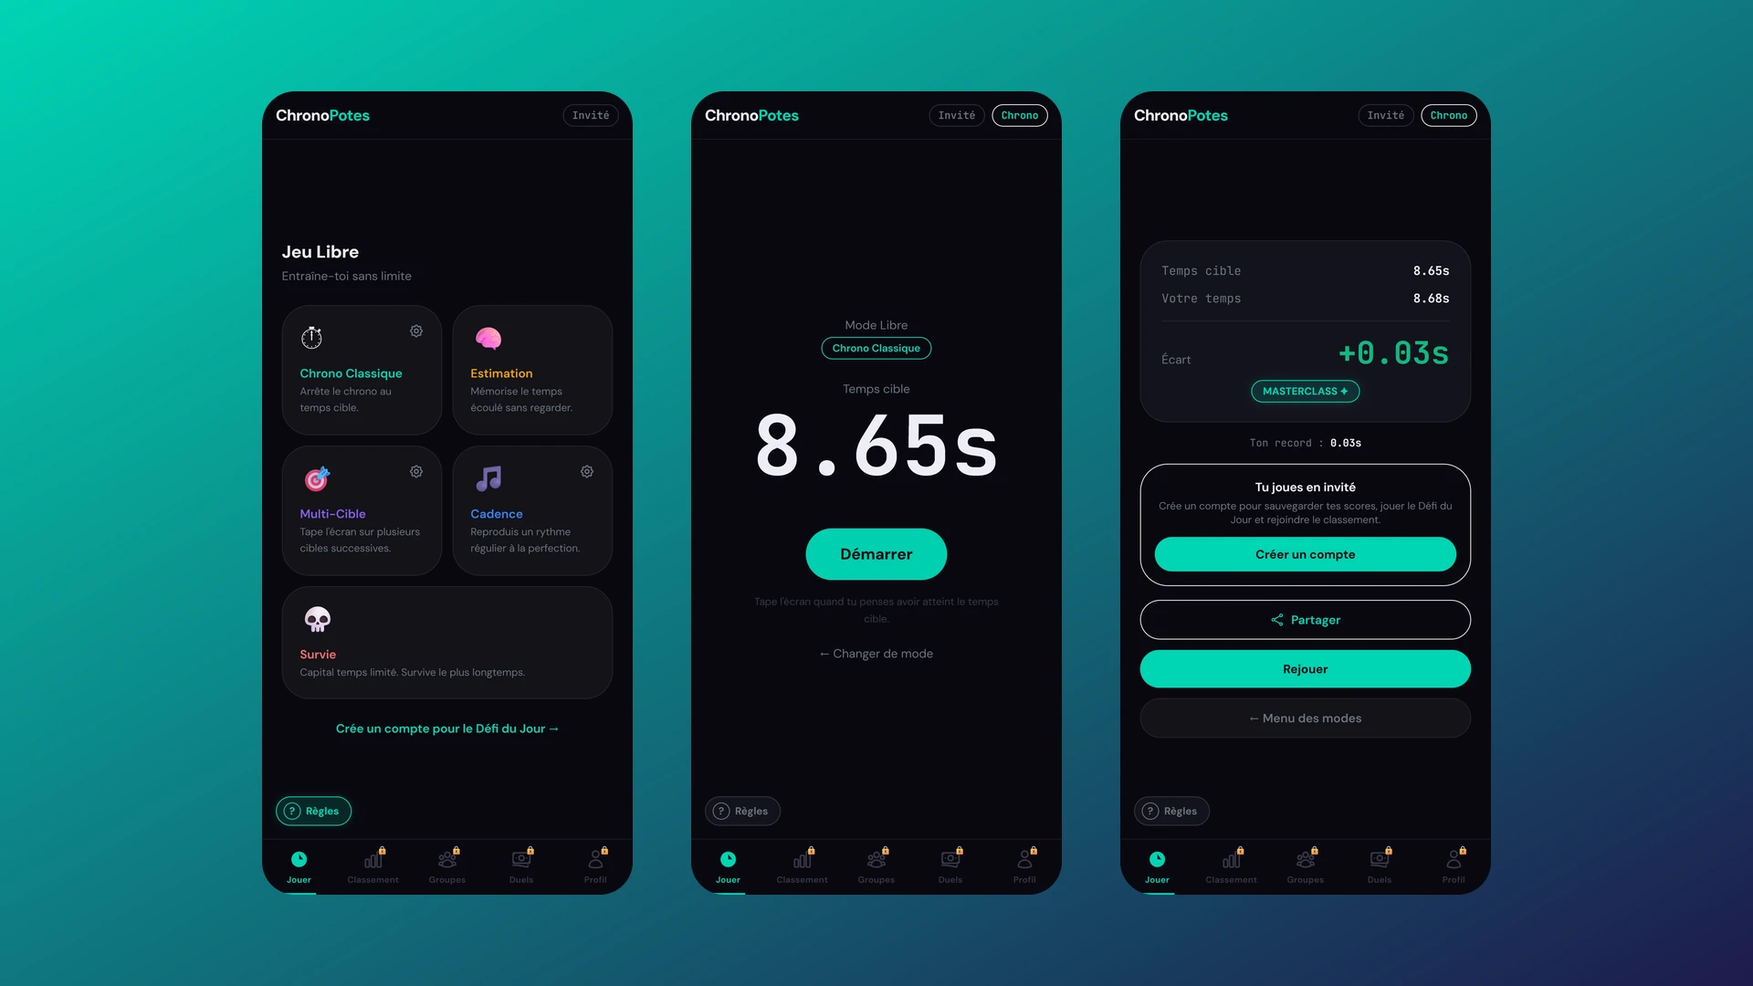
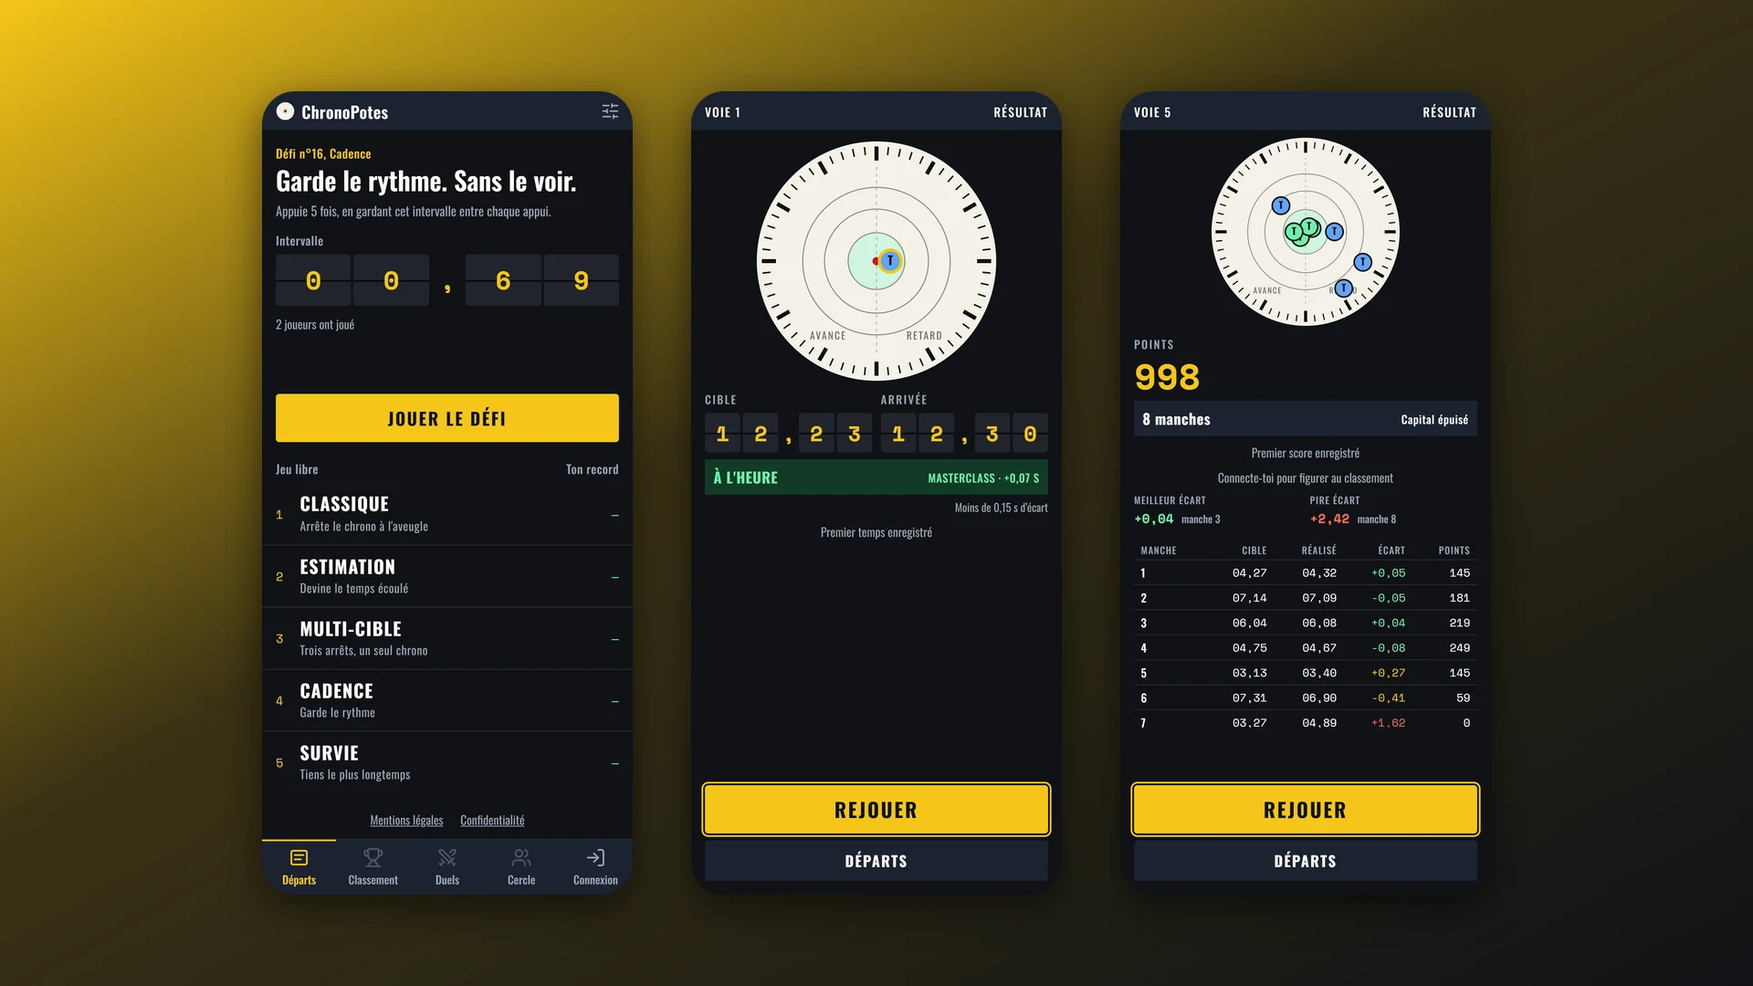
Projets : ChronoPotes passe a la v2
La page decrivait encore la premiere version : Tailwind, application
Android via Capacitor, jokers et onglet Rivalites. La v2, reconstruite de
zero en novembre, n'en garde rien. La page presente desormais le defi du
jour jouable sans compte, les duels asynchrones et les defis de groupe,
les amis et groupes, la PWA et ses notifications Web Push, le back-office
et la regle d'or du chrono. La stack suit le depot : CSS Modules, Edge
Functions, Realtime, pg_cron, Workbox et pgTAP.

Les captures sont celles du site en ligne, prises en Jeu libre dans un
navigateur vierge : accueil, resultats Classique et Multi-cible, bilan de
Survie et regles. La couverture reprend trois de ces ecrans sur un
degrade aux couleurs de la nouvelle charte. Les quatre captures de la v1
sont retirees.

Le role raconte la refonte en deux temps, le contexte puis la technique :
RoleCallout separe desormais les paragraphes sur une ligne vide, comme en
Markdown. Les roles d'un seul paragraphe s'affichent comme avant.

diff --git a/src/content/work/chronopotes.md b/src/content/work/chronopotes.md
@@ -1,70 +1,77 @@
 ---
 title: ChronoPotes
-publishDate: 2026-08-18 00:00:00
+publishDate: 2026-11-20 00:00:00
 description: |
-  Jeu web quotidien où l'on entraîne sa perception du temps : arrêter un chronomètre au plus près d'une durée cible. Un défi commun à tous les joueurs chaque jour, des classements, des duels et des groupes privés.
+  Jeu web quotidien de précision temporelle, reconstruit de zéro : arrêter un chronomètre à l'aveugle au plus près d'une cible. Un défi commun chaque jour, des duels entre amis, des groupes et une application installable.
 tags:
   - React
+  - TypeScript
   - Supabase
   - PostgreSQL
-  - Tailwind CSS
-  - Capacitor
+  - PWA
 demoUrl: https://www.chronopotes.fr
-gradient: "linear-gradient(135deg, #00d4b4 0%, #1e1b4b 100%)"
+gradient: "linear-gradient(135deg, #F5C518 0%, #101216 100%)"
 img: ../../assets/projets/chronopotes/couverture.webp
-img_alt: "Trois ecrans de ChronoPotes cote a cote : le menu des cinq modes de jeu, l'ecran de lancement affichant un temps cible de 8,65 s, et l'ecran de resultat annoncant un ecart de +0,03 s note MASTERCLASS."
-period: "2026"
-context: Projet personnel
+img_alt: "Trois écrans de ChronoPotes côte à côte : l'accueil avec le défi du jour et les cinq modes du Jeu libre, le résultat d'une partie de Classique notée Masterclass, et le bilan d'une partie de Survie."
+period: Juin – novembre 2026
+context: Projet personnel, en ligne
 team: Seul
 intro: |
-  ChronoPotes est un jeu quotidien qui entraîne le sens du temps. Chaque jour, une même durée cible est tirée pour tout le monde : il faut arrêter le chronomètre au plus près, en une seule tentative. Le reste du jeu est construit autour de cette contrainte : un classement du jour, une série à ne pas casser, des duels lancés à un ami par un simple lien et des groupes privés pour ne se comparer qu'à ses proches. Le jeu est en ligne et ouvert à tous.
+  ChronoPotes est un jeu quotidien qui entraîne le sens du temps : arrêter un chronomètre à l'aveugle, au plus près d'une durée cible. Chaque jour, le serveur tire le même défi pour tous les joueurs, à jouer en un seul essai. Une première version est en ligne depuis l'été ; en novembre, je l'ai reconstruite de zéro, avec une nouvelle charte inspirée des tableaux de gare, un nouveau moteur de jeu, une nouvelle base et des fonctions sociales repensées. Le jeu est ouvert à tous sur chronopotes.fr et s'installe sur téléphone comme une application.
 features:
-  - title: Un défi quotidien, une seule tentative
-    description: La même durée cible pour tous les joueurs, une série qui se construit jour après jour et des jokers gagnés en jouant pour survivre à un oubli.
+  - title: Défi du jour, même sans compte
+    description: Une cible tirée par le serveur, la même pour tous à l'heure de Paris, jamais dans le même mode deux jours de suite. On le joue sans compte ; le compte ajoute le classement et la série.
     icon: trophy
   - title: Cinq modes de jeu
-    description: Classique, Estimation à l'aveugle, Multi-Cible, Cadence à reproduire et Survie avec banque de temps.
+    description: Classique, Estimation à l'aveugle, Multi-cible, Cadence, et Survie, où un capital de temps s'use au fil des manches, avec combos et incidents aléatoires.
     icon: strategy
-  - title: Duels asynchrones entre amis
-    description: Un duel se lance par un lien partagé ; l'adversaire joue quand il veut, dans des conditions identiques, et l'onglet Rivalités tient le bilan des face-à-face.
+  - title: Un résultat lisible d'un coup d'œil
+    description: Des palettes qui se retournent comme sur un tableau de gare, un son synthétisé en Web Audio et une horloge-cible où chaque écart se plante comme une fléchette.
+    icon: pencil-line
+  - title: Duels et défis de groupe
+    description: Un duel asynchrone en trois tentatives, lancé par lien ou depuis ses amis, le bilan de chaque rivalité, et des défis ouverts à tout un groupe avec leur palmarès.
     icon: paper-plane-tilt
-  - title: Groupes privés
-    description: Un code d'invitation crée un classement fermé, pour se mesurer à ses proches plutôt qu'au monde entier.
-  - title: Classements multiples
-    description: Du jour, général, hebdomadaire et survie, avec la tendance de rang par rapport à la veille.
+  - title: Amis et groupes
+    description: Des amis ajoutés par pseudo, des groupes rejoints par code ou par lien, et des classements filtrés sur ces cercles.
     icon: list
-  - title: Trophées et carte de partage
-    description: Des succès à paliers, dont quelques-uns cachés, et une image de résultat générée en canvas pour partager sa performance.
-  - title: Back-office complet
-    description: Calendrier des défis à venir, configuration du jeu, gestion des joueurs et des groupes, et mode maintenance.
-    icon: terminal-window
-  - title: Application Android
-    description: Le même code empaqueté en application native via Capacitor.
+  - title: Application installable et notifications
+    description: Une PWA qui se joue sans réseau en Jeu libre, un guide d'installation sur iPhone, et des notifications Web Push réglables type par type et muettes la nuit.
     icon: rocket-launch
+  - title: Back-office d'administration
+    description: Un accès protégé par un code à usage unique, le calendrier des défis à venir, la fiche et l'export des données d'un joueur, les suspensions, les annonces et un bandeau d'information, chaque action notée au journal.
+    icon: terminal-window
+  - title: La règle d'or du chrono
+    description: Pendant qu'un chrono court, rien ne bouge à l'écran et aucun appel réseau ne part, pour ne donner aucun repère au joueur. Un test de bout en bout vérifie que la page reste identique entre le GO et le clic.
+    icon: code
 stack:
   - layer: Frontend
-    items: [React 19, Vite, React Router, Tailwind CSS]
+    items: [React 19, TypeScript strict, Vite, React Router, CSS Modules]
   - layer: Backend
-    items: [Supabase, PostgreSQL, Row Level Security, Edge Functions]
+    items: [Supabase, PostgreSQL, Row Level Security, Edge Functions, Realtime, pg_cron]
+  - layer: PWA
+    items: [Workbox, Web Push]
   - layer: Tests
-    items: [Vitest, Testing Library]
-  - layer: Mobile
-    items: [Capacitor (Android)]
-  - layer: Déploiement
+    items: [Vitest, Testing Library, Playwright, pgTAP]
+  - layer: Hébergement
     items: [Vercel]
 role: |
-  Projet personnel mené seul, du jeu lui-même jusqu'à la mise en ligne. La partie la plus instructive n'a pas été le jeu mais la base : les scores étant classants, tout ce qui les produit vit côté serveur. J'ai mené un audit de l'intégration entre l'application et la base, qui a mis au jour des écritures directes contournant les fonctions de validation, des accès concurrents capables de fausser un duel ou une série, et des données de joueurs privés lisibles via l'API. Les règles d'accès ont été refermées, les compteurs rendus atomiques et le calcul des écarts déplacé côté serveur.
+  Projet personnel mené seul, de la conception à la mise en ligne. La première version fonctionnait, mais son code se prêtait mal aux évolutions, la génération des défis laissait passer des erreurs et l'interface manquait de personnalité. Plutôt que de la rapiécer, je l'ai reconstruite en sous-projets, chacun livré avec sa spécification, son plan et ses tests, et validé sur des adresses de prévisualisation avant la bascule du domaine.
+
+  Le moteur de jeu est du TypeScript pur, sans React ni horloge : chaque mode est une machine à états, testée avec des instants et un tirage aléatoire injectés. La même copie du moteur tourne dans les Edge Functions, qui recalculent chaque score côté serveur. Côté base, une règle guide tout : le serveur seul décide. Elle vient de l'audit de la première version, qui avait révélé des écritures contournant la validation. Droits d'accès, limites, suspensions et administration sont vérifiés dans PostgreSQL et couverts par des tests pgTAP, si bien qu'un appel direct à l'API ne contourne rien.
 gallery:
-  - src: ../../assets/projets/chronopotes/modes.webp
-    alt: "Ecran Jeu Libre de ChronoPotes : cinq cartes de mode (Chrono Classique, Estimation, Multi-Cible, Cadence et Survie), chacune avec sa description en une ligne."
-    caption: Les cinq modes du jeu libre, chacun avec sa propre regle de precision.
-  - src: ../../assets/projets/chronopotes/temps-cible.webp
-    alt: "Ecran de lancement d'une partie : le mode Chrono Classique, un temps cible de 8,65 s affiche en tres grand, et un bouton Demarrer."
-    caption: "Le temps cible s'affiche avant le depart : c'est la seule information dont dispose le joueur."
-  - src: ../../assets/projets/chronopotes/resultat.webp
-    alt: "Ecran de resultat : temps cible 8,65 s, temps du joueur 8,68 s, ecart de +0,03 s note MASTERCLASS, suivi des boutons Partager et Rejouer."
-    caption: Le resultat compare la cible au temps reel et attribue une note selon l'ecart.
+  - src: ../../assets/projets/chronopotes/accueil.webp
+    alt: "Accueil de ChronoPotes sur téléphone : le défi du jour n°16 en mode Cadence, son intervalle de 0,69 s sur des palettes jaunes et le bouton Jouer le défi, puis la liste des cinq modes du Jeu libre et la barre de navigation."
+    caption: "L'accueil met en tête le défi du jour, jouable sans compte, au-dessus des cinq modes du Jeu libre."
+  - src: ../../assets/projets/chronopotes/classique-resultat.webp
+    alt: "Résultat d'une partie de Classique : une horloge de gare dont la fléchette est plantée dans la zone verte du centre, une cible de 12,23 s, une arrivée à 12,30 s et le bandeau À l'heure, Masterclass, +0,07 s."
+    caption: "Chaque écart se lit sur l'horloge : l'avance à gauche, le retard à droite, la Masterclass au centre."
+  - src: ../../assets/projets/chronopotes/multi-resultat.webp
+    alt: "Résultat d'une partie de Multi-cible : trois fléchettes numérotées sur l'horloge, un écart moyen de 0,29 s noté Dans les temps, et le tableau des trois arrêts avec la cible, le temps réalisé et l'écart coloré selon son niveau."
+    caption: "En Multi-cible, une fléchette par arrêt et le détail de chaque écart."
+  - src: ../../assets/projets/chronopotes/survie-resultat.webp
+    alt: "Bilan d'une partie de Survie : 998 points en 8 manches, capital épuisé, une fléchette par manche sur l'horloge, le meilleur et le pire écart, puis le tableau des manches avec cible, temps réalisé, écart et points."
+    caption: "La Survie s'arrête quand le capital de temps est épuisé ; le bilan retrace chaque manche."
   - src: ../../assets/projets/chronopotes/regles.webp
-    alt: "Modale des regles du jeu, onglet Classique : les trois etapes d'une partie, puis l'echelle de precision qui associe chaque palier d'ecart a une note, de MASTERCLASS a moins de 0,15 s jusqu'a Encore un effort au-dela d'une seconde."
-    caption: "L'echelle de precision est commune a tous les modes : un ecart, un palier, une note."
+    alt: "Règles du mode Classique affichées par-dessus l'écran de jeu : les trois étapes d'une partie, puis l'échelle des niveaux, de À l'heure sous 0,15 s d'écart jusqu'à Supprimé au-delà d'une seconde."
+    caption: "Les règles s'ouvrent avant la première partie de chaque mode, avec l'échelle des niveaux."
 ---

diff --git a/src/content/work-en/chronopotes.md b/src/content/work-en/chronopotes.md
@@ -1,70 +1,77 @@
 ---
 title: ChronoPotes
-publishDate: 2026-08-18 00:00:00
+publishDate: 2026-11-20 00:00:00
 description: |
-  A daily web game that trains your sense of time: stop a timer as close as possible to a target duration. One shared challenge a day, leaderboards, duels, and private groups.
+  A daily web game about timing, rebuilt from scratch: stop a timer blind, as close as possible to a target. One shared challenge a day, duels between friends, groups, and an installable app.
 tags:
   - React
+  - TypeScript
   - Supabase
   - PostgreSQL
-  - Tailwind CSS
-  - Capacitor
+  - PWA
 demoUrl: https://www.chronopotes.fr
-gradient: "linear-gradient(135deg, #00d4b4 0%, #1e1b4b 100%)"
+gradient: "linear-gradient(135deg, #F5C518 0%, #101216 100%)"
 img: ../../assets/projets/chronopotes/couverture.webp
-img_alt: "Three ChronoPotes screens side by side: the five-mode menu, the launch screen showing a target time of 8.65 s, and the result screen announcing a gap of +0.03 s rated MASTERCLASS."
-period: "2026"
-context: Personal project
+img_alt: "Three ChronoPotes screens side by side: the home screen with the daily challenge and the five Free Play modes, the result of a Classic game rated Masterclass, and the summary of a Survival game."
+period: June – November 2026
+context: Personal project, live
 team: Solo
 intro: |
-  ChronoPotes is a daily game that trains your sense of time. Every day, the same target duration is drawn for everyone: you have to stop the timer as close to it as you can, in a single attempt. The rest of the game is built around that constraint: a daily leaderboard, a streak you would rather not break, duels sent to a friend through a plain link, and private groups so you only compare yourself to the people you know. The game is live and open to everyone.
+  ChronoPotes is a daily game that trains your sense of time: stop a timer blind, as close as you can to a target duration. Every day, the server draws the same challenge for every player, with a single attempt. A first version has been live since the summer; in November, I rebuilt it from scratch, with a new visual identity inspired by railway departure boards, a new game engine, a new database, and redesigned social features. The game is open to everyone at chronopotes.fr and installs on a phone like an app.
 features:
-  - title: One daily challenge, one attempt
-    description: The same target duration for every player, a streak built day after day, and jokers earned through play to survive a missed day.
+  - title: A daily challenge, even without an account
+    description: A target drawn by the server, the same for everyone on Paris time, never in the same mode two days in a row. You can play it without an account; an account adds the leaderboard and the streak.
     icon: trophy
   - title: Five game modes
-    description: Classic, blind Estimation, Multi-Target, Cadence to reproduce, and Survival with a time bank.
+    description: Classic, blind Estimation, Multi-Target, Cadence, and Survival, where a time bank wears down round after round, with combos and random incidents.
     icon: strategy
-  - title: Asynchronous duels between friends
-    description: A duel starts from a shared link; your opponent plays whenever they want under identical conditions, and the Rivalries tab keeps the head-to-head record.
+  - title: A result you read at a glance
+    description: Flaps that flip like a departure board, a sound synthesised with Web Audio, and a clock-shaped target where each gap lands like a dart.
+    icon: pencil-line
+  - title: Duels and group challenges
+    description: An asynchronous duel in three attempts, started from a link or from your friends list, the record of every rivalry, and challenges open to a whole group with their own honours board.
     icon: paper-plane-tilt
-  - title: Private groups
-    description: An invite code creates a closed leaderboard, to measure yourself against friends rather than the whole world.
-  - title: Multiple leaderboards
-    description: Daily, all-time, weekly, and survival, with the rank trend compared to the day before.
+  - title: Friends and groups
+    description: Friends added by username, groups joined with a code or a link, and leaderboards filtered to these circles.
     icon: list
-  - title: Achievements and share card
-    description: Tiered achievements, a few of them hidden, and a canvas-generated result image to share a performance.
-  - title: Full back-office
-    description: Calendar of upcoming challenges, game configuration, player and group management, and a maintenance mode.
-    icon: terminal-window
-  - title: Android application
-    description: The same codebase packaged as a native app through Capacitor.
+  - title: Installable app and notifications
+    description: A PWA whose Free Play works offline, an installation guide for iPhone, and Web Push notifications that can be switched off type by type and stay silent at night.
     icon: rocket-launch
+  - title: Administration back office
+    description: Access protected by a one-time code, the calendar of upcoming challenges, each player's record and data export, suspensions, announcements, and an information banner, with every action written to an audit log.
+    icon: terminal-window
+  - title: The golden rule of the timer
+    description: While a timer runs, nothing moves on screen and no network call goes out, so the player gets no cue at all. An end-to-end test checks that the page stays identical between GO and the tap.
+    icon: code
 stack:
   - layer: Frontend
-    items: [React 19, Vite, React Router, Tailwind CSS]
+    items: [React 19, strict TypeScript, Vite, React Router, CSS Modules]
   - layer: Backend
-    items: [Supabase, PostgreSQL, Row Level Security, Edge Functions]
-  - layer: Tests
-    items: [Vitest, Testing Library]
-  - layer: Mobile
-    items: [Capacitor (Android)]
-  - layer: Deployment
+    items: [Supabase, PostgreSQL, Row Level Security, Edge Functions, Realtime, pg_cron]
+  - layer: PWA
+    items: [Workbox, Web Push]
+  - layer: Testing
+    items: [Vitest, Testing Library, Playwright, pgTAP]
+  - layer: Hosting
     items: [Vercel]
 role: |
-  A personal project carried out alone, from the game itself through to going live. The most instructive part was not the game but the database: since scores are ranked, everything that produces them belongs on the server. I ran an audit of the integration between the app and the database, which surfaced direct writes bypassing the validation functions, concurrent accesses able to corrupt a duel or a streak, and private players' data readable through the API. Access rules were closed down, counters made atomic, and score-gap computation moved server-side.
+  A personal project I carried out alone, from design to release. The first version worked, but its code was hard to evolve, challenge generation let errors through, and the interface lacked personality. Rather than patching it, I rebuilt it as a series of sub-projects, each delivered with its own specification, plan, and tests, and validated on preview deployments before the domain was switched over.
+
+  The game engine is plain TypeScript, with no React and no clock: each mode is a state machine, tested with injected timestamps and an injected random generator. The same copy of the engine runs in the Edge Functions, which recompute every score on the server. On the database side, one rule drives everything: the server alone decides. It comes from the audit of the first version, which had uncovered writes that bypassed validation. Access rights, limits, suspensions, and administration are enforced in PostgreSQL and covered by pgTAP tests, so a direct call to the API gets around none of them.
 gallery:
-  - src: ../../assets/projets/chronopotes/modes.webp
-    alt: "ChronoPotes free-play screen: five mode cards (Chrono Classique, Estimation, Multi-Cible, Cadence and Survie), each with a one-line description."
-    caption: The five free-play modes, each with its own precision rule.
-  - src: ../../assets/projets/chronopotes/temps-cible.webp
-    alt: "Game launch screen: Chrono Classique mode, a target time of 8.65 s shown very large, and a Start button."
-    caption: "The target time appears before the start: it is the only information the player gets."
-  - src: ../../assets/projets/chronopotes/resultat.webp
-    alt: "Result screen: target time 8.65 s, player time 8.68 s, a gap of +0.03 s rated MASTERCLASS, followed by Share and Replay buttons."
-    caption: The result compares the target with the actual time and grades it by the gap.
+  - src: ../../assets/projets/chronopotes/accueil.webp
+    alt: "ChronoPotes home screen on a phone: daily challenge no. 16 in Cadence mode, its 0.69 s interval on yellow flaps and the Play the challenge button, followed by the list of the five Free Play modes and the navigation bar."
+    caption: "The home screen leads with the daily challenge, playable without an account, above the five Free Play modes."
+  - src: ../../assets/projets/chronopotes/classique-resultat.webp
+    alt: "Result of a Classic game: a station clock with the dart in the green centre zone, a target of 12.23 s, an arrival at 12.30 s, and the banner On time, Masterclass, +0.07 s."
+    caption: "Every gap shows on the clock: early to the left, late to the right, Masterclass in the centre."
+  - src: ../../assets/projets/chronopotes/multi-resultat.webp
+    alt: "Result of a Multi-Target game: three numbered darts on the clock, an average gap of 0.29 s rated On schedule, and a table of the three stops with the target, the actual time, and a gap coloured by level."
+    caption: "In Multi-Target, one dart per stop and the detail of each gap."
+  - src: ../../assets/projets/chronopotes/survie-resultat.webp
+    alt: "Summary of a Survival game: 998 points over 8 rounds, time bank used up, one dart per round on the clock, the best and worst gaps, then the table of rounds with target, actual time, gap, and points."
+    caption: "Survival ends when the time bank runs out; the summary goes back over every round."
   - src: ../../assets/projets/chronopotes/regles.webp
-    alt: "Game rules modal, Classic tab: the three steps of a round, then the precision scale mapping each gap band to a grade, from MASTERCLASS under 0.15 s down to Keep trying beyond one second."
-    caption: "The precision scale is shared by every mode: one gap, one band, one grade."
+    alt: "Rules of the Classic mode shown over the game screen: the three steps of a game, then the scale of levels, from On time under a 0.15 s gap to Cancelled beyond one second."
+    caption: "The rules open before the first game of each mode, along with the scale of levels."
 ---
